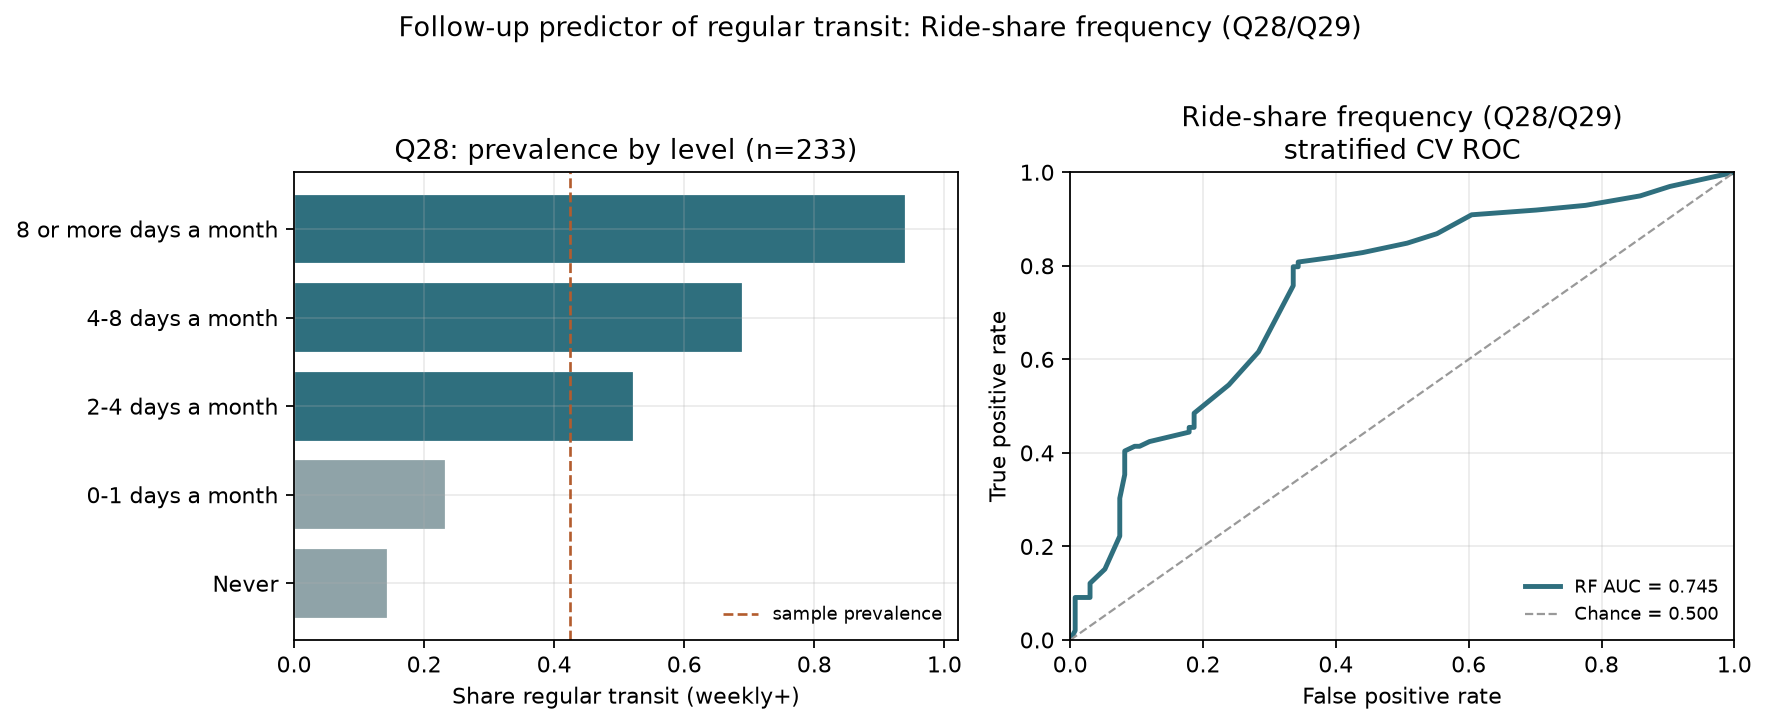
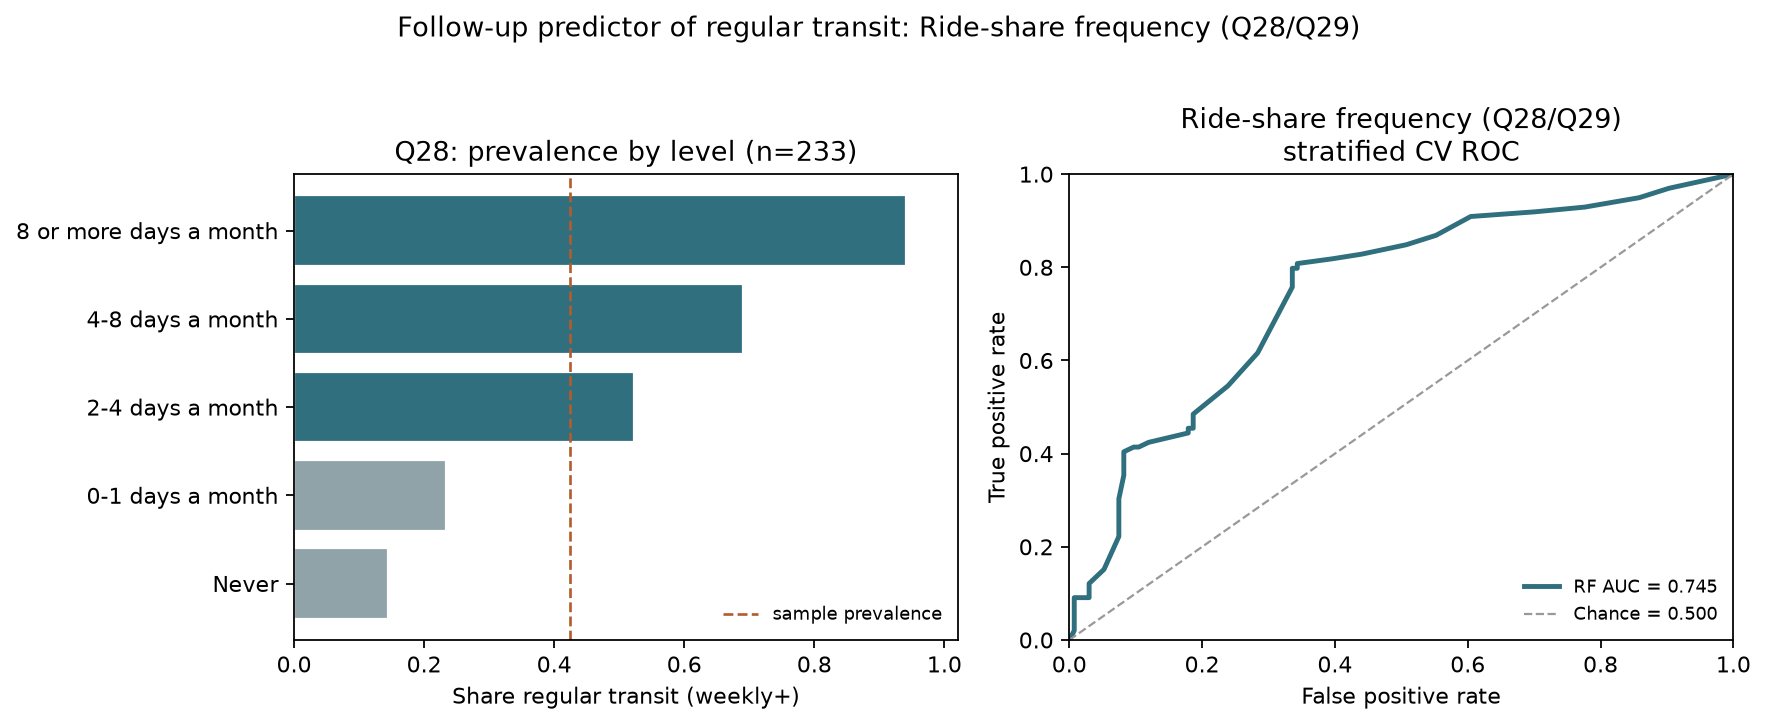
Add Q27/Q28 ML transit findings to manuscript and research memo (#28)

diff --git a/src/ca_personas/transit_covariate_rf.py b/src/ca_personas/transit_covariate_rf.py
@@ -55,6 +55,30 @@ FEATURE_SPECS: dict[str, dict[str, Any]] = {
             "matched respondent takes public transportation regularly?"
         ),
     },
+    "q27_intensity": {
+        "features": ["Q27"],
+        "label": "Transit intensity on use days (Q27)",
+        "research_question": (
+            "Does rides-per-typical-public-transit-day (Q27) predict whether a "
+            "matched respondent takes public transportation regularly?"
+        ),
+    },
+    "q28_days": {
+        "features": ["Q28"],
+        "label": "Ride-share days (Q28)",
+        "research_question": (
+            "Do ride-share days in the last three months (Q28) predict whether a "
+            "matched respondent takes public transportation regularly?"
+        ),
+    },
+    "q27_q28": {
+        "features": ["Q27", "Q28"],
+        "label": "Transit intensity + ride-share days (Q27/Q28)",
+        "research_question": (
+            "Do public-transit intensity (Q27) and ride-share days (Q28) jointly "
+            "predict regular public-transit use in a traditional ML classifier?"
+        ),
+    },
     "mobility_bundle": {
         "features": ["Q20", "Q21", "Q28", "Q29", "Employment status"],
         "label": "Car + ride-share + employment bundle",
@@ -98,6 +122,7 @@ def prepare_covariate_frame(
             "Employment status",
             "Q20",
             "Q21",
+            "Q27",
             "Q28",
             "Q29",
         )
@@ -575,6 +600,7 @@ def plot_comparison_memo_figure(
     comparison: pd.DataFrame,
     *,
     output_path: str | Path,
+    title: str = "Geo-memo follow-ups: predictors of regular public transit",
 ) -> Path:
     """Bar chart comparing follow-up AUCs against geo/CA/chance benchmarks."""
     import matplotlib.pyplot as plt
@@ -589,7 +615,7 @@ def plot_comparison_memo_figure(
     for key in frame["spec_key"]:
         if key in {"geo_benchmark", "ca_benchmark", "chance"}:
             colors.append("#A67C52")
-        elif key == "mobility_bundle":
+        elif key in {"mobility_bundle", "q27_q28", "q28_days"}:
             colors.append("#1F4E5F")
         else:
             colors.append("#2F6F7E")
@@ -604,7 +630,7 @@ def plot_comparison_memo_figure(
     ax.set_yticklabels(labels[::-1], fontsize=9)
     ax.set_xlabel("CV ROC-AUC")
     ax.set_xlim(0.45, max(0.75, max(aucs) + 0.04))
-    ax.set_title("Geo-memo follow-ups: predictors of regular public transit")
+    ax.set_title(title)
     ax.legend(loc="lower right", fontsize=8, frameon=False)
     for yi, auc in zip(y, aucs[::-1]):
         ax.text(auc + 0.004, yi, f"{auc:.3f}", va="center", fontsize=8)

diff --git a/tests/test_transit_covariate_rf.py b/tests/test_transit_covariate_rf.py
@@ -60,6 +60,15 @@ def _synthetic(n: int = 200, seed: int = 0) -> pd.DataFrame:
             "participant_id": [f"p{i}" for i in range(n)],
             "Q20": license_,
             "Q21": car,
+            "Q27": rng.choice(
+                [
+                    "1-2 rides in a typical day",
+                    "3-4 rides in a typical day",
+                    "5-6 rides in a typical day",
+                ],
+                size=n,
+                p=[0.75, 0.2, 0.05],
+            ),
             "Q28": q28,
             "Q29": q29,
             "Employment status": emp,
@@ -69,9 +78,18 @@ def _synthetic(n: int = 200, seed: int = 0) -> pd.DataFrame:
 
 
 def test_feature_specs_cover_geo_memo_candidates():
-    assert set(FEATURE_SPECS) >= {"car_access", "employment", "rideshare", "mobility_bundle"}
+    assert set(FEATURE_SPECS) >= {
+        "car_access",
+        "employment",
+        "rideshare",
+        "mobility_bundle",
+        "q27_intensity",
+        "q28_days",
+        "q27_q28",
+    }
     assert FEATURE_SPECS["car_access"]["features"] == ["Q20", "Q21"]
     assert FEATURE_SPECS["rideshare"]["features"] == ["Q28", "Q29"]
+    assert FEATURE_SPECS["q27_q28"]["features"] == ["Q27", "Q28"]
 
 
 def test_prepare_drops_missing_car_items():

diff --git a/memos/q27_q28_predict_transit.md b/memos/q27_q28_predict_transit.md
@@ -1,0 +1,78 @@
+---
+title: "Memo: Do Q27 and Q28 predict regular public transit?"
+subtitle: "Research memorandum — transit intensity & ride-share days in traditional ML"
+author: Jack J. Burleson
+date: 2026-07-25
+---
+
+**Research question:** In traditional machine-learning classifiers, how much predictive power do survey items **Q27** (rides on a typical public-transit day) and **Q28** (ride-share days in the last three months) carry for **regular** public-transit use?
+
+**Companion memos:** [`rideshare_predicts_transit.md`](rideshare_predicts_transit.md) · [`transit_covariate_followups.md`](transit_covariate_followups.md) · parent [`geo_predicts_transit.md`](geo_predicts_transit.md)  
+**Manuscript:** [`index.qmd`](../index.qmd) § *Secondary results: Q27/Q28 as ML predictors of regular transit*
+
+---
+
+## Answer, Response, + Summary of Results
+
+Using the Prolific↔Qualtrics matched analytic cohort (File A + File B joined to File C; base **n = 241** with complete PRCA and usable `Q26`), we define **regular transit** as `Q26` ∈ {`4-8 days a month`, `8 or more days a month`} (weekly-or-more). We then fit balanced **Random Forests** with stratified 5-fold CV (`random_state=42`) using categorical one-hot encodings of:
+
+| Item | Stem (abridged) | Role |
+|---|---|---|
+| **Q27** | On a typical day of public transportation use, how many rides do you take? | Within-mode **intensity** |
+| **Q28** | In the last three months on how many days did you use ride-share platforms? | Cross-mode **ride-share exposure** |
+
+**Short answer:** **Q28 is a strong traditional-ML predictor** of regular transit (CV ROC-AUC ≈ **0.762**). **Q27 is only modest** (≈ **0.589**)—on par with the CA-score benchmark—and adds almost nothing once Q28 is in the model (joint AUC ≈ **0.761**). Ride-share days, not transit-day intensity, carry the usable discrimination.
+
+![Q27 prevalence / ROC and Q28 prevalence / ROC](figures/q27_q28_predicts_transit_memo.png)
+
+![Head-to-head AUC: Q27, Q28, joint model vs geo/CA/chance](figures/q27_q28_predicts_transit_comparison.png)
+
+### Descriptive gradients
+
+**Q27 (n = 239).** Respondents reporting more rides on a typical transit day are more often weekly+ riders, but most of the sample sits in the lowest intensity bin:
+
+| Q27 | n | % regular |
+|---|---:|---:|
+| 1–2 rides / typical day | 190 | 34.7% |
+| 3–4 rides / typical day | 45 | 68.9% |
+| 5–6 rides / typical day | 3 | 100% |
+| 7+ rides / typical day | 1 | 100% |
+
+**Q28 (n = 241).** Regular-transit prevalence rises steeply with ride-share days:
+
+| Q28 | n | % regular |
+|---|---:|---:|
+| Never | 70 | 15.7% |
+| 0–1 days a month | 47 | 23.4% |
+| 2–4 days a month | 65 | 52.3% |
+| 4–8 days a month | 42 | 69.0% |
+| 8 or more days a month | 17 | **94.1%** |
+
+### Random Forest performance (stratified CV)
+
+| Model | n | ROC-AUC | Avg. precision | Balanced acc. | F1 |
+|---|---:|---:|---:|---:|---:|
+| **Q28 only** | 241 | **0.762** | 0.689 | 0.730 | 0.702 |
+| **Q27 + Q28** | 239 | **0.761** | 0.690 | 0.696 | 0.667 |
+| Q28 + Q29 (rideshare family) | 233 | 0.745 | 0.655 | 0.731 | 0.709 |
+| **Q27 only** | 239 | **0.589** | 0.513 | 0.623 | 0.467 |
+| CA RF benchmark | 241 | 0.590 | — | — | — |
+| Geo RF benchmark | 241 | 0.551 | — | — | — |
+| Chance | — | 0.500 | — | 0.500 | — |
+
+Permutation importance in the joint **Q27 + Q28** forest ranks **Q28** (mean AUC drop ≈ 0.24) far above **Q27** (≈ 0.04). Adding Q29 (rides on a typical ride-share day) to Q28 does not improve AUC over Q28 alone.
+
+### Interpretation
+
+1. **Significance for traditional ML.** Among mobility self-reports tested as reverse predictors of weekly+ transit, **Q28 is the dominant signal**—substantially stronger than survey geolocation (AUC ≈ 0.55) or group/interpersonal CA (AUC ≈ 0.59). A single categorical ride-share-days item recovers useful ranking quality (AP ≈ 0.69, balanced accuracy ≈ 0.73).
+2. **Q27’s limited role.** Intensity-on-use-days is associated with regular ridership but is sparse above 1–2 rides and yields only CA-like discrimination. It is also *conceptually adjacent* to the `Q26` outcome (both describe public-transit behavior), so even the modest AUC should not be over-interpreted as an independent lifestyle cue.
+3. **Joint model.** Q27 does not meaningfully lift Q28; the joint forest is essentially a ride-share-days classifier. For persona-tier design, this reinforces treating **ride-share exposure** as the high-value transit cue in tabular learners ([`docs/factor_feature_importance.md`](../docs/factor_feature_importance.md) likewise ranks Q28 first when predicting CA).
+4. **Non-causal caveat.** Same-wave self-reports cannot separate multimodality, urbanicity, income, or common method variance between `Q26` and `Q28`.
+
+*Sources:* `ca-personas covariate-transit-rf --specs q27_intensity q28_days q27_q28` · `src/ca_personas/transit_covariate_rf.py` · artifacts `outputs/transit_covariate_rf/{q27_intensity,q28_days,q27_q28}/` · [github.com/Exios66/psych755-jjb](https://github.com/Exios66/psych755-jjb)
+
+---
+
+## What questions or uncertainties remain?
+
+Would Q28 retain its lift after conditioning on city density or car access? Does Q27 help *within* the regular-rider subgroup for intensity forecasting even though it weakly predicts the weekly+ threshold?

diff --git a/docs/secondary_rq_q27_q28_predict_transit.md b/docs/secondary_rq_q27_q28_predict_transit.md
@@ -1,0 +1,51 @@
+---
+title: "Do Q27 and Q28 predict regular public transit use?"
+subtitle: "Secondary research question — traditional ML write-up for transit intensity & ride-share days"
+---
+
+**Project:** PSYCH 755 — CA persona / PRCA framework  
+**Analysis code:** [`src/ca_personas/transit_covariate_rf.py`](../src/ca_personas/transit_covariate_rf.py)  
+**CLI:** `ca-personas covariate-transit-rf --specs q27_intensity q28_days q27_q28 --join inner --seed 42`  
+**Artifacts:** `outputs/transit_covariate_rf/{q27_intensity,q28_days,q27_q28}/`  
+**Research memo:** [`memos/q27_q28_predict_transit.md`](../memos/q27_q28_predict_transit.md)  
+**Manuscript:** [`index.qmd`](../index.qmd)
+
+---
+
+## 1. Research question
+
+Among matched Prolific↔Qualtrics respondents, do **Q27** (public-transit rides on a typical use day) and **Q28** (ride-share days in the last three months) predict **regular** public-transit use (`Q26` weekly+) in a traditional Random Forest classifier—and which item carries the usable signal?
+
+## 2. Methods
+
+- **Sample:** File A + File B inner-joined to File C; analytic base n = 241 with complete PRCA and usable `Q26`. Complete-case n = 239 (Q27), 241 (Q28), 239 (joint).
+- **Outcome:** `regular_transit` = `Q26` ∈ {`4-8 days a month`, `8 or more days a month`}.
+- **Models:** One-hot categorical features → balanced `RandomForestClassifier` (500 trees, `min_samples_leaf=3`), stratified 5-fold `cross_val_predict`, seed 42; Gini + permutation importance (`scoring="roc_auc"`).
+- **Benchmarks:** chance AUC = 0.500; geo RF ≈ 0.551; CA RF ≈ 0.590; rideshare family Q28+Q29 ≈ 0.745.
+
+## 3. Results
+
+| Model | n | ROC-AUC | AP | Bal. acc. | F1 |
+|---|---:|---:|---:|---:|---:|
+| Q28 only | 241 | **0.762** | 0.689 | 0.730 | 0.702 |
+| Q27 + Q28 | 239 | **0.761** | 0.690 | 0.696 | 0.667 |
+| Q28 + Q29 | 233 | 0.745 | 0.655 | 0.731 | 0.709 |
+| Q27 only | 239 | **0.589** | 0.513 | 0.623 | 0.467 |
+| CA benchmark | 241 | 0.590 | — | — | — |
+| Geo benchmark | 241 | 0.551 | — | — | — |
+| Chance | — | 0.500 | — | 0.500 | — |
+
+Regular-transit prevalence rises from 15.7% (Q28 Never) to 94.1% (Q28 8+ days/month). Q27 shows a milder intensity gradient concentrated in the 1–2 rides bin. Joint-model permutation importance: Q28 ≫ Q27.
+
+## 4. Interpretation
+
+Q28 is a **strong**, practically meaningful traditional-ML predictor of weekly+ transit in this cohort. Q27 is **weak–modest** and redundant once Q28 is included. See the research memo for full prose interpretation and caveats.
+
+## 5. Reproducibility
+
+```bash
+ca-personas covariate-transit-rf \
+  --specs q27_intensity q28_days q27_q28 \
+  --join inner --seed 42 \
+  --figures-dir memos/figures
+```

diff --git a/README.md b/README.md
@@ -48,6 +48,7 @@ These questions use the **full Prolific↔Qualtrics matched analytic sample** (F
 | 4 | Do Qualtrics **latitude & longitude** predict regular transit use? (RF + CV) | [`secondary_rq_geo_transit_rf.ipynb`](notebooks/secondary_rq_geo_transit_rf.ipynb) | `ca-personas geo-transit-rf` |
 | 5 | Do **group & interpersonal CA** scores predict regular transit use? (RF + CV) | [`secondary_rq_ca_transit_rf.ipynb`](notebooks/secondary_rq_ca_transit_rf.ipynb) | `ca-personas ca-transit-rf` · [write-up](docs/secondary_rq_ca_predicts_transit.md) |
 | 6 | Do **car access / employment / ride-share** predict regular transit? (geo-memo follow-ups) | [`secondary_rq_transit_covariate_followups.ipynb`](notebooks/secondary_rq_transit_covariate_followups.ipynb) | `ca-personas covariate-transit-rf` · [write-up](docs/secondary_rq_transit_covariate_followups.md) |
+| 7 | Do **Q27** (transit intensity) & **Q28** (ride-share days) predict regular transit? (traditional ML) | same follow-up CLI (`--specs q27_intensity q28_days q27_q28`) | [write-up](docs/secondary_rq_q27_q28_predict_transit.md) · [memo](memos/q27_q28_predict_transit.md) · manuscript `index.qmd` |
 
 **Primary operationalization of “regular transit” (RQs 1–6):** `Q26` ∈ {`4-8 days a month`, `8 or more days a month`} (weekly-or-more public transit).
 

diff --git a/memos/README.md b/memos/README.md
@@ -11,6 +11,7 @@ Individual research memoranda for PSYCH 755.
 | [`car_access_predicts_transit.md`](car_access_predicts_transit.md) | Jack J. Burleson | Do car license & access (`Q20`/`Q21`) predict regular transit? |
 | [`employment_predicts_transit.md`](employment_predicts_transit.md) | Jack J. Burleson | Does employment status predict regular transit? |
 | [`rideshare_predicts_transit.md`](rideshare_predicts_transit.md) | Jack J. Burleson | Does ride-share frequency (`Q28`/`Q29`) predict regular transit? |
+| [`q27_q28_predict_transit.md`](q27_q28_predict_transit.md) | Jack J. Burleson | Do Q27 (transit intensity) & Q28 (ride-share days) predict regular transit in traditional ML? |
 | [`transit_covariate_followups.md`](transit_covariate_followups.md) | Jack J. Burleson | Head-to-head geo-memo follow-ups (car / employment / ride-share) |
 
 Supporting figure(s) live under [`figures/`](figures/).

diff --git a/memos/transit_covariate_followups.md b/memos/transit_covariate_followups.md
@@ -8,7 +8,7 @@ date: 2026-07-25
 **Research question:** Among the candidates listed in the geography → transit memo—car license/access (`Q20`/`Q21`), employment status, and ride-share frequency (`Q28`/`Q29`)—which features best predict regular public-transit use?
 
 **Parent memo:** [`geo_predicts_transit.md`](geo_predicts_transit.md)  
-**Family memos:** [`car_access_predicts_transit.md`](car_access_predicts_transit.md) · [`employment_predicts_transit.md`](employment_predicts_transit.md) · [`rideshare_predicts_transit.md`](rideshare_predicts_transit.md)
+**Family memos:** [`car_access_predicts_transit.md`](car_access_predicts_transit.md) · [`employment_predicts_transit.md`](employment_predicts_transit.md) · [`rideshare_predicts_transit.md`](rideshare_predicts_transit.md) · [`q27_q28_predict_transit.md`](q27_q28_predict_transit.md) (Q27 vs Q28 traditional ML)
 
 ---
 

diff --git a/memos/rideshare_predicts_transit.md b/memos/rideshare_predicts_transit.md
@@ -8,6 +8,7 @@ date: 2026-07-25
 **Research question:** Does ride-share use (`Q28` days; `Q29` typical rides) predict whether a matched respondent takes public transportation regularly?
 
 **Parent memo:** [`geo_predicts_transit.md`](geo_predicts_transit.md)  
+**Q27/Q28 focused memo:** [`q27_q28_predict_transit.md`](q27_q28_predict_transit.md) · manuscript § in [`index.qmd`](../index.qmd)  
 **Comparison memo:** [`transit_covariate_followups.md`](transit_covariate_followups.md)
 
 ---
